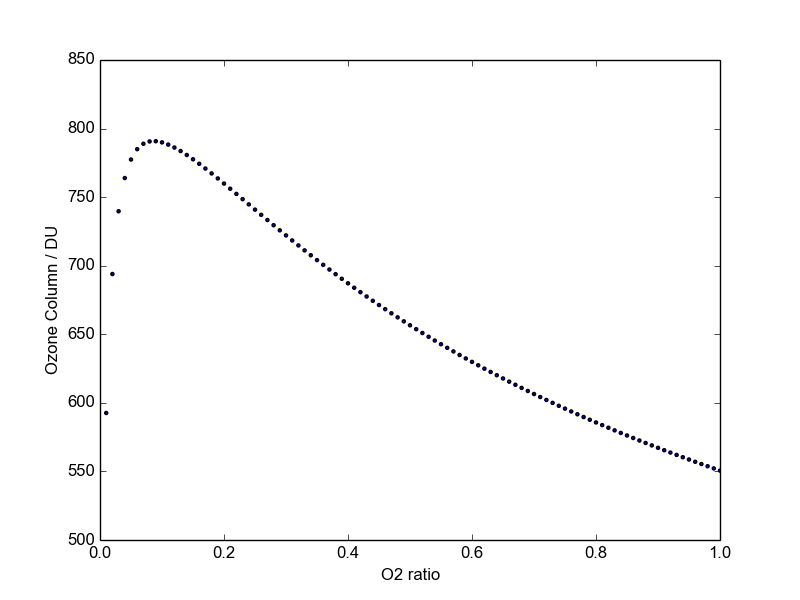
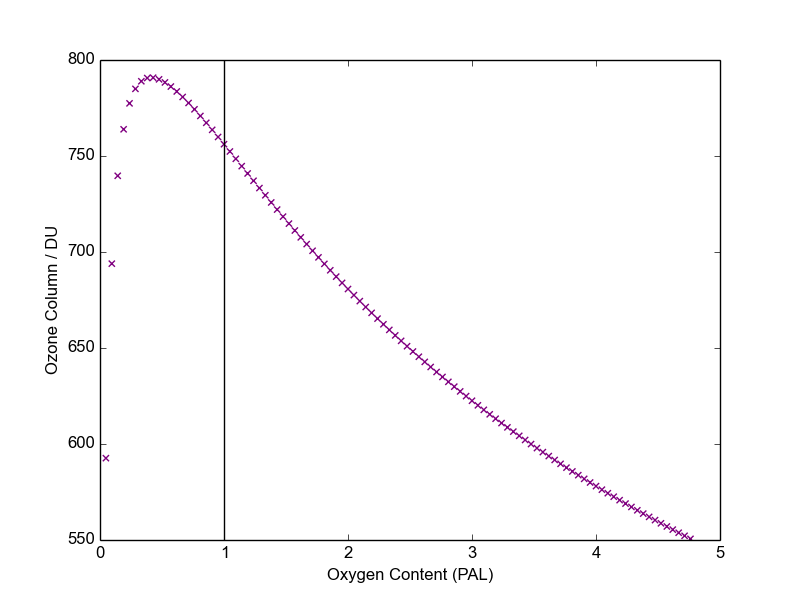
Plot Changes

diff --git a/main.py b/main.py
@@ -123,6 +123,29 @@ plt.xlabel(r'Oxygen Content (PAL)')
 plt.ylabel(r'Ozone Column / cm-2')
 #plt.show()
 plt.savefig('dobson_log.png')
+plt.close()
+
+ratios=np.linspace(0.01,1.00,100)
+fig, ax=plt.subplots()
+for i in range(len(ratios)):
+        ratio=ratios[i]
+        print ratio
+        M_surf=2.5E19*(ratio+0.79)
+        height,o3,o2,o,J_o2,J_o3,o3_running=steady(nlevs,h_max,h_min,H,M_surf,ratio,o2_c,o3_c,T,sol,sol_bin_width)
+        du=o3_running
+        du=o3_running/2.69E16
+        ratio=ratio/0.21
+        plt.scatter(ratio,du,marker="x",color='purple')
+x,y=(1,1),(0,1000)
+plt.plot(x,y,color='k')
+ax.set_xlim([0,5])
+ax.set_ylim([550,800])
+plt.xlabel(r'Oxygen Content (PAL)')
+plt.ylabel(r'Ozone Column / DU')
+#plt.show()
+plt.savefig('dobson.png')
+plt.close()
+
 
 #height=np.linspace(h_max,h_min,nlevs)
 #o=np.zeros(nlevs)
